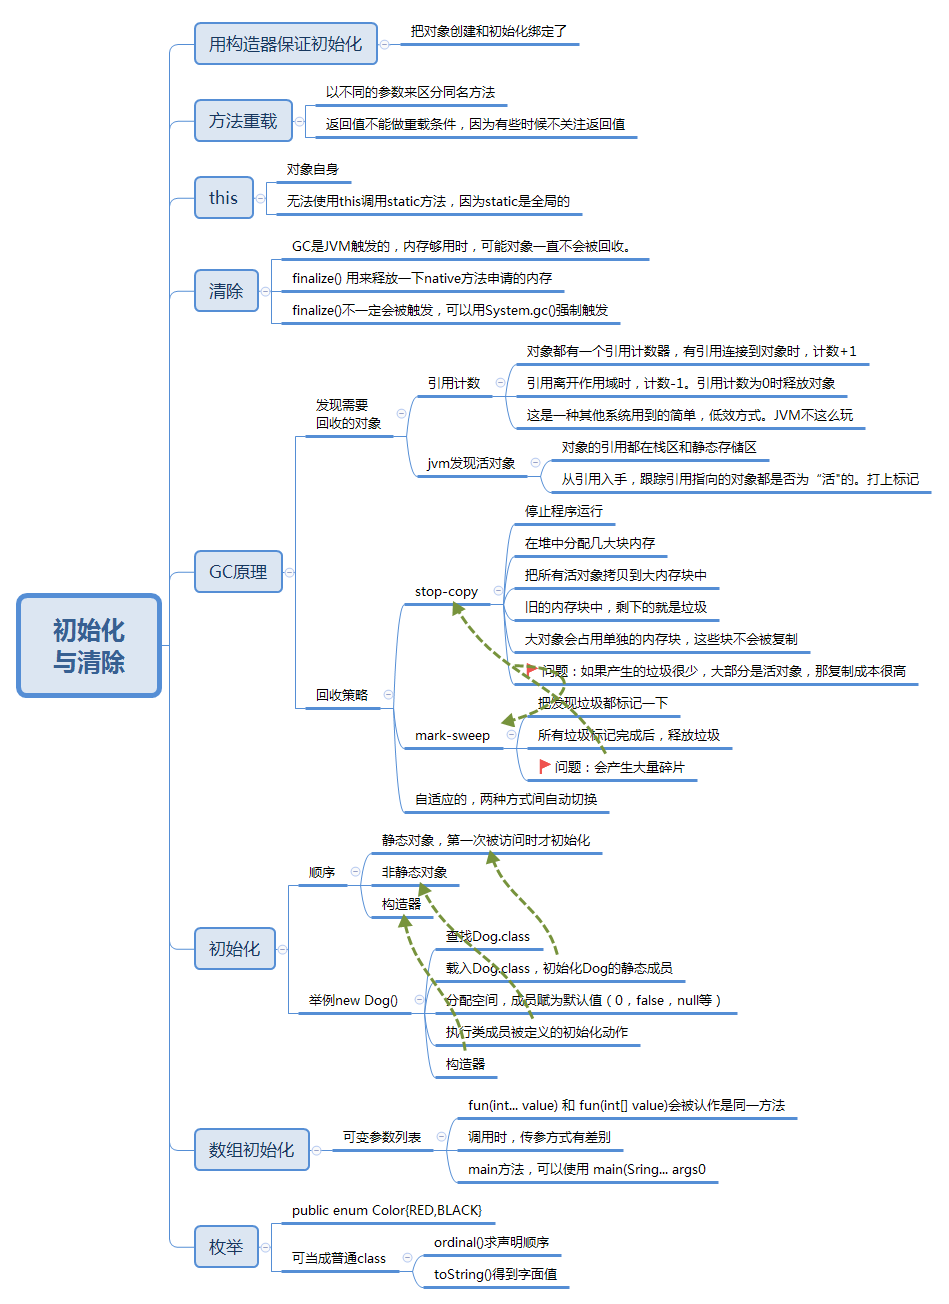
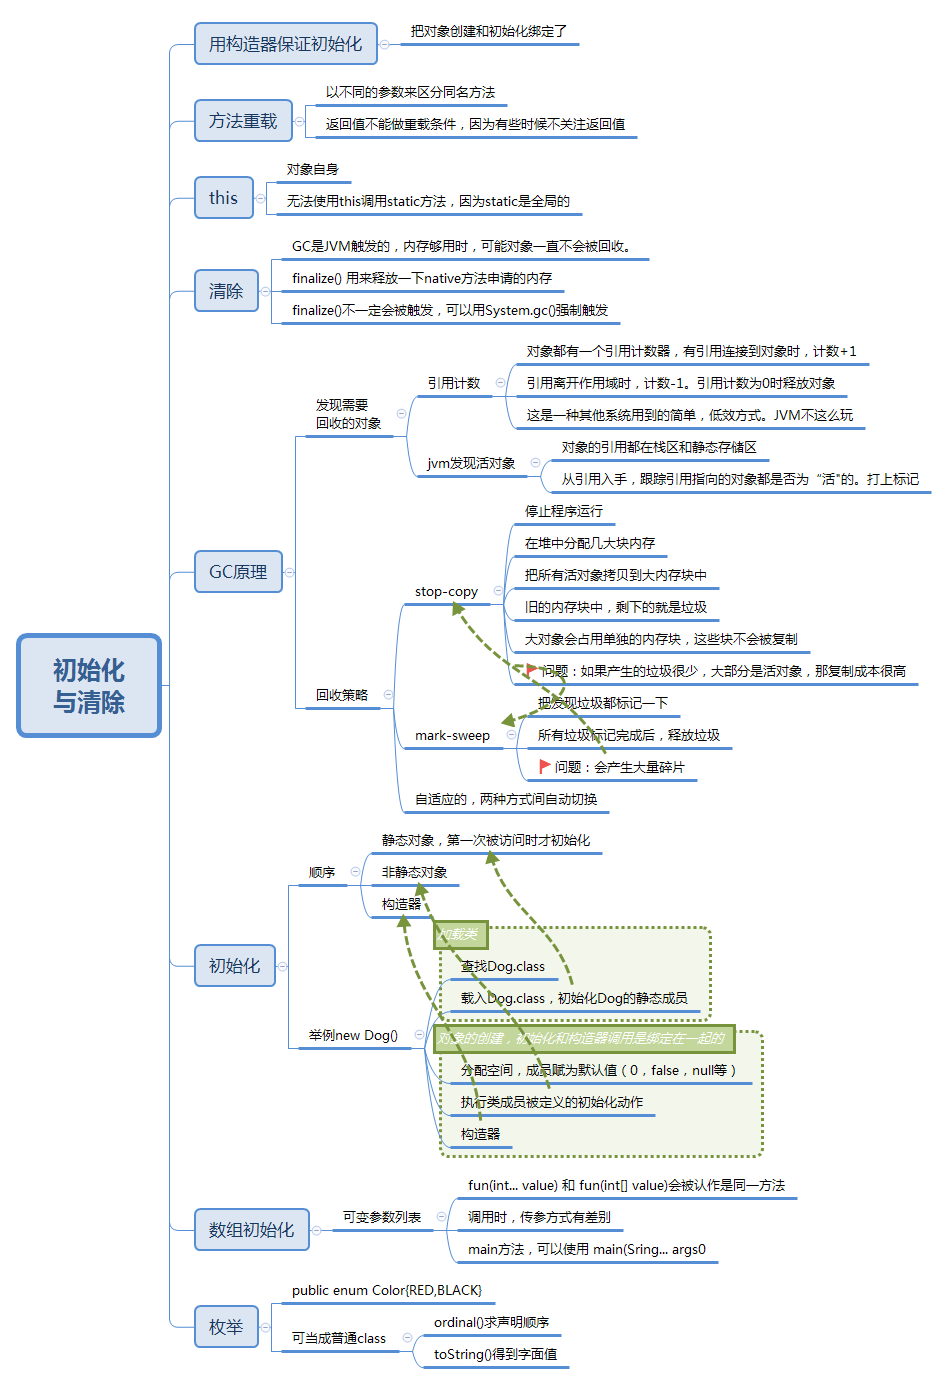
1.修改初始化与清除 2.增加访问控制与类复用

Changed region(s): [[0.1834, 0.0, 0.9779, 1.0], [0.0306, 0.4294, 0.1528, 0.5521], [0.1834, 0.3988, 0.3056, 0.4601]]

diff --git a/_layouts/default.html b/_layouts/default.html
@@ -7,6 +7,9 @@
   <meta http-equiv="X-UA-Compatible" content="IE=edge">
   <meta name="viewport" content="width=device-width,initial-scale=1">
   
+  <link rel="shortcut icon" href="/images/favicon.ico" type="images/x-icon">
+  <link rel="icon" href="/images/favicon.ico" type="image/x-icon">
+  
   <link rel="stylesheet" href="{{ '/assets/css/style.css?v=' | append: site.github.build_revision | relative_url }}">
   <script src="https://code.jquery.com/jquery-1.12.4.min.js" integrity="sha256-ZosEbRLbNQzLpnKIkEdrPv7lOy9C27hHQ+Xp8a4MxAQ=" crossorigin="anonymous"></script>
   <script src="{{ '/assets/js/script.js' | relative_url }}"></script>

diff --git a/content/it/java/access_control.md b/content/it/java/access_control.md
@@ -1,0 +1,60 @@
+---
+layout: default
+title: 访问控制
+description: access control public protected private package
+---
+
+访问控制的目标是为了**隐藏具体实现**：只开放给类库使用者必要的接口，保持这些接口不动。类库提供者可以修改其他代码，以重构，优化功能。
+
+## 一图流
+
+![access_control](access_control/access_control.png)
+
+## 包：package
+
+可以把包理解为名字空间，为了让不同开发者提供的类不产生冲突。一般规则是把域名倒过来写，作为包名，class文件在jar包里的存放路径也是按包名作为路径来存放。JVM在加载类的时候，根据classPath找到jar包，再根据包名找到对应的路径，最后根据类名取到class.进行加载。
+使用其他包中的类时，用**import**关键字把包导入就可以了，import有两个小特性
+
+* 静态导入一个类，然后就可以直接调用类中的静态方式，而不用加类名，比如：
+
+```java
+package com.util;
+
+public class Print {
+    public static void println(String s){
+        System.out.println(s);
+    }
+}
+```
+
+```java
+import static com.util.Print.*
+
+public class TestImport{
+    public static void main(String... args){
+        println("blog");
+    }
+}
+```
+
+* 实现类似c语言条件编译的效果
+
+其实上面两个特性，用处都不大，知道有这回事就行。
+
+## 权限控制：public,protected,private,package
+
+上面几个关键字为类的域和方法提供了访问权限修饰。
+
+### 包访问权限
+
+在域和方法前没有任何关键字，则为包访问权限。包内的其他类可自由访问此成员(public)。包外的类无法访问（private）。
+
+### public:接口访问权限
+可以被任意包下的任意类访问，无限制。
+
+### private:私有
+除了类自身的成员，其他类无法访问（即使在同一个包下）。除了接口，和必须暴露实现细节的域，所有域都推荐指定为private。
+
+### protected:继承访问权限
+有时候想把某些域开放给子类访问，就可以把域修饰为protected。实际上protected还包含了包访问权限。
+

diff --git a/content/it/java/reusing.md b/content/it/java/reusing.md
@@ -1,0 +1,69 @@
+---
+layout: default
+title: 复用类
+description: access control public protected private package
+---
+
+复用代码是Java最重要的功能，主要有组合和继承两种方式 。
+
+## 一图流
+
+![reusing](reusing/reusing.png)
+
+## 继承类的初始化顺序
+
+继承类的初始化顺序比较容易弄混，其实和普通对象的初始化顺序是类似的，只是需要遵循先父后子的原则。普通对象的初始化顺序可以参考[初始化与清除](gc.html)中，初始化那个节点的图。为了展示这个特性，我做了实验。
+### 代码
+
+```js
+package com.kai.ilearn.tij4.ch7;
+
+public class Base {
+
+    public static int getInt(String s, int i) {
+        System.out.println(s);
+        return i;
+    }
+
+    static int i = getInt("base static field", 11);
+    int j = getInt("base normal field", 12);
+
+    public Base() {
+        System.out.println("constractor base");
+    }
+}
+```
+
+```js
+package com.kai.ilearn.tij4.ch7;
+
+public class Sub extends Base {
+    public Sub() {
+        System.out.println("constractor sub");
+    }
+
+    static int j = getInt("sub static field", 21);
+    int k = getInt("sub normal field", 22);
+
+    public static void main(String[] args) {
+        System.out.println("begine test!--");
+        new Sub();
+    }
+}
+```
+
+### 执行结果
+> 1. base static field
+2. sub static field
+3. begine test!--
+4. base normal field
+5. constractor base
+6. sub normal field
+7. constractor sub
+
+### 关键步骤解析
+> 1. 程序开始，执行Sub.main()方法，首先要加载Sub类，发现Sub类的父类Base，就先加载Base类。打印1
+2. 接着加载子类Sub。打印2
+3. 加载完毕，调用main()方法，打印3
+4. new Sub()时，发现父类，先分配父类空间，执行父类普通域初始化，调用父类构造器。打印4.5。**注意：分配空间，初始化普通域，调用构造器是绑定在一起的**
+5. 分配子类空间，初始化子类域，调用子类构造器。打印6.7

diff --git a/content/it/java/index.md b/content/it/java/index.md
@@ -1,10 +1,16 @@
 ---
 layout: default
-title: 关于JAVA的一切
+title: 有关于JAVA
 ---
+
+> 这部分博客是个大杂烩，读者是自己，类似于一个学习笔记。希望当自己回顾一些知识体系时，可以不用再去啃一遍书。
+> 
+> 由于是笔记，所以会比杂，而且对一些已经掌握的知识，并不会写在上面。当然，对一些重要主题，我也会尝试去用自己的思路来讲清楚(能把知识清楚的讲给别人听，是衡量。)。当然，如果有人能从中有所收获，那更好。
 
 # Thinking in Java
 * [初始化和清除](gc.html)
+* [访问控制](access_control.html)
+* [复用类](reusing.html)
 * String
 * 异常
 * 类型鉴定

diff --git a/content/it/java/gc.md b/content/it/java/gc.md
@@ -4,6 +4,6 @@ title: 初始化与清除
 description: Java GC initialize
 ---
 
-## 直接上图
+## 一图流
 
 ![gc](gc/gc.png)
